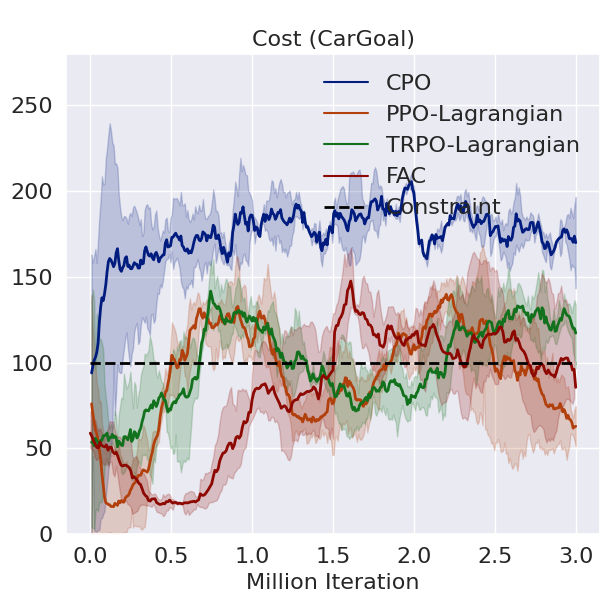
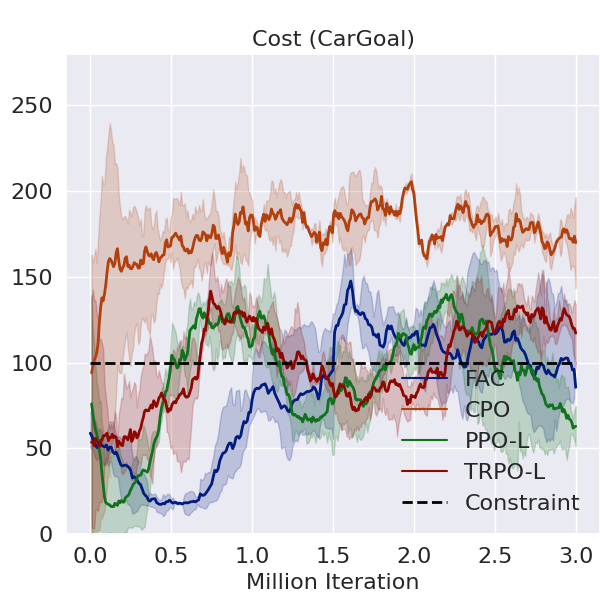
update lineplot

diff --git a/data_process/lineplot_mujoco.py b/data_process/lineplot_mujoco.py
@@ -13,9 +13,9 @@ from tensorboard.backend.event_processing import event_accumulator
 import json
 
 sns.set(style="darkgrid")
-SMOOTHFACTOR = 1
-SMOOTHFACTOR2 = 3
-SMOOTHFACTOR3 = 7
+SMOOTHFACTOR = 1 # 1 3 7 halfcheetah
+SMOOTHFACTOR2 = 20
+SMOOTHFACTOR3 = 20
 DIV_LINE_WIDTH = 50
 txt_store_alg_list = ['CPO', 'PPO-Lagrangian', 'TRPO-Lagrangian']
 base_dict = dict(HalfCheetah=150, Ant=150)
@@ -24,9 +24,9 @@ fsac_final_list = ['conti100HalfCheetah-2021-05-13-20-58-14-s4', 'conti100HalfCh
 ylim_dict = {'episode_return':{'HalfCheetah': [-1000,2500]},'episode_cost':{}}
 
 def help_func():
-    tag2plot = ['episode_return']
-    alg_list = ['CPO','PPO-Lagrangian','TRPO-Lagrangian', 'FSAC',] # 'FSAC', 'CPO', 'SAC','SAC-Lagrangian',
-    lbs = ['CPO','PPO-Lagrangian','TRPO-Lagrangian', 'FAC'] # 'FSAC', 'CPO', 'SAC','SAC-Lagrangian',
+    tag2plot = ['episode_cost']
+    alg_list = ['FSAC','CPO','PPO-Lagrangian','TRPO-Lagrangian', ] # 'FSAC', 'CPO', 'SAC','SAC-Lagrangian',
+    lbs = [ 'FAC', 'CPO','PPO-L','TRPO-L',] # 'FSAC', 'CPO', 'SAC','SAC-Lagrangian',
     task = ['Ant']
     #todo: CarGoal: sac
     #todo: CarButton: sac choose better fac
@@ -102,6 +102,12 @@ def plot_eval_results_of_all_alg_n_runs(dirs_dict_for_plot=None):
                                                     -1] + SMOOTHFACTOR * float(t) / 240.0 * 149.0
                                                 if data_in_one_run_of_one_alg[tag] else float(t)/ 240.0 * 149.0)
                                             data_in_one_run_of_one_alg['iteration'].append(int(step))
+                                        elif alg=='FSAC' and task=='Ant' and tag == 'episode_return' and v.tag[11:]=='episode_return':
+                                            data_in_one_run_of_one_alg[tag].append(
+                                                (1 - SMOOTHFACTOR) * data_in_one_run_of_one_alg[tag][
+                                                    -1] + SMOOTHFACTOR * float(t) / 138.0 * 149.0
+                                                if data_in_one_run_of_one_alg[tag] else float(t)/ 138.0 * 149.0)
+                                            data_in_one_run_of_one_alg['iteration'].append(int(step))
                                         elif tag == v.tag[11:]:
                                             data_in_one_run_of_one_alg[tag].append(
                                                 (1 - SMOOTHFACTOR) * data_in_one_run_of_one_alg[tag][
@@ -137,24 +143,32 @@ def plot_eval_results_of_all_alg_n_runs(dirs_dict_for_plot=None):
         fontsize = 16
         f1 = plt.figure(1, figsize=figsize)
         ax1 = f1.add_axes(axes_size)
-        sns.lineplot(x="iteration", y=tag2plot[0], hue="algorithm",
-                     data=total_dataframe, linewidth=2, palette=palette
-                     )
+        legend = True if task == 'Ant' and tag == 'episode_cost' else False
+        if not legend:
+            sns.lineplot(x="iteration", y=tag2plot[0], hue="algorithm",
+                         data=total_dataframe, linewidth=2, palette=palette, legend=False
+                         )
+        else:
+            sns.lineplot(x="iteration", y=tag2plot[0], hue="algorithm",
+                         data=total_dataframe, linewidth=2, palette=palette
+                         )
         base = base_dict[task]
         handles, labels = ax1.get_legend_handles_labels()
         labels = lbs
         if tag == 'episode_cost':
             basescore = sns.lineplot(x=[0., 3.], y=[base, base], linewidth=2, color='black', linestyle='--')
-            ax1.legend(handles=handles + [basescore.lines[-1]], labels=labels + ['Constraint'], loc='upper right',
-                       frameon=False, fontsize=fontsize)
+            if legend:
+                ax1.legend(handles=handles + [basescore.lines[-1]], labels=labels + ['Constraint'], loc='upper left',
+                           frameon=False, fontsize=fontsize)
         else:
-            ax1.legend(handles=handles , labels=labels , loc='lower right', frameon=False, fontsize=fontsize, ncol=1)
+            if legend:
+                ax1.legend(handles=handles , labels=labels , loc='lower right', frameon=False, fontsize=fontsize, ncol=1)
         # print(ax1.lines[0].get_data())
         ax1.set_ylabel('')
         ax1.set_xlabel("Million Iteration", fontsize=fontsize)
         print(compare_dict)
-        title = 'Reward ({}) \n {:+.0%}, {:+.0%}, {:+.0%}\n over TRPO-L, CPO, PPO-L'\
-            .format(task, compare_dict['TRPO-Lagrangian'], compare_dict['CPO'], compare_dict['PPO-Lagrangian']) if tag == 'episode_return' else 'Episode Cost'
+        title = 'Reward ({}) \n {:+.0%}, {:+.0%}, {:+.0%}\n over CPO, TRPO-L, PPO-L'\
+            .format(task, compare_dict['CPO'], compare_dict['TRPO-Lagrangian'], compare_dict['PPO-Lagrangian']) if tag == 'episode_return' else 'Episode Cost'
         ax1.set_title(title, fontsize=fontsize)
         if task in ylim_dict[tag]:
             ax1.set_ylim(*ylim_dict[tag][task])

diff --git a/data_process/lineplot.py b/data_process/lineplot.py
@@ -22,10 +22,10 @@ ylim_dict = {'episode_return':{'CarGoal': [-5, 25],'PointButton': [-15, 33]},
              'episode_cost':{'CarGoal': [0, 280],'PointButton': [20, 160]}} # {'CarGoal': [-5, 25]}
 
 def help_func():
-    tag2plot = ['episode_cost']
-    alg_list = [ 'CPO', 'PPO-Lagrangian', 'TRPO-Lagrangian', 'FSAC',] # 'SAC','SAC-Lagrangian',, 'TRPO-Lagrangian'
-    lbs = [ 'CPO', 'PPO-Lagrangian', 'TRPO-Lagrangian', 'FAC',] # 'SAC','SAC-Lagrangian',, 'TRPO-Lagrangian'
-    task = ['PointButton']
+    tag2plot = ['episode_return']
+    alg_list = [ 'FSAC','CPO', 'PPO-Lagrangian', 'TRPO-Lagrangian', ] # 'SAC','SAC-Lagrangian',, 'TRPO-Lagrangian'
+    lbs = [ 'FAC','CPO', 'PPO-L', 'TRPO-L', ] # 'SAC','SAC-Lagrangian',, 'TRPO-Lagrangian'
+    task = ['CarGoal']
     #todo: CarGoal: sac
     #todo: CarButton: sac choose better fac
     # todo: CarPush: ???
@@ -34,7 +34,7 @@ def help_func():
     dir_str = '../results/{}/{}' # .format(algo name) # /data2plot
     return tag2plot, alg_list, task, lbs, palette, goal_perf_list, dir_str
 
-def plot_eval_results_of_all_alg_n_runs(dirs_dict_for_plot=None, legend=True):
+def plot_eval_results_of_all_alg_n_runs(dirs_dict_for_plot=None):
     tag2plot, alg_list, task_list, lbs, palette, _, dir_str = help_func()
     df_dict = {}
     df_in_one_run_of_one_alg = {}
@@ -103,9 +103,15 @@ def plot_eval_results_of_all_alg_n_runs(dirs_dict_for_plot=None, legend=True):
         fontsize = 16
         f1 = plt.figure(1, figsize=figsize)
         ax1 = f1.add_axes(axes_size)
-        sns.lineplot(x="iteration", y=tag, hue="algorithm",
-                     data=total_dataframe, linewidth=2, palette=palette
-                     )
+        legend = True if task == 'CarGoal' and tag == 'episode_cost' else False
+        if not legend:
+            sns.lineplot(x="iteration", y=tag2plot[0], hue="algorithm",
+                         data=total_dataframe, linewidth=2, palette=palette, legend=False
+                         )
+        else:
+            sns.lineplot(x="iteration", y=tag2plot[0], hue="algorithm",
+                         data=total_dataframe, linewidth=2, palette=palette
+                         )
         base = 40 if task == 'PointGoal' else 100
         handles, labels = ax1.get_legend_handles_labels()
         labels = lbs

diff --git a/train_scripts/test_script4fsac.py b/train_scripts/test_script4fsac.py
@@ -68,17 +68,17 @@ def built_FSAC_parser():
     mode = parser.parse_args().mode
 
     if mode == 'testing':
-        test_dir = '../results/FSAC/Walker2d/Walker2d-2021-05-17-11-40-09-s2'
+        test_dir = '../results/FSAC/Walker2d/Walker2d-2021-05-17-16-34-02-s0'
         params = json.loads(open(test_dir + '/config.json').read())
         time_now = datetime.datetime.now().strftime("%Y-%m-%d-%H-%M-%S")
         test_log_dir = params['log_dir'] + '/tester/test-{}'.format(time_now)
         params.update(dict(test_dir=test_dir,
-                           test_iter_list=[1000000],
+                           test_iter_list=[1400000],
                            test_log_dir=test_log_dir,
                            num_eval_episode=5,
                            num_eval_agent=1,
                            eval_log_interval=1,
-                           fixed_steps=1000,
+                           fixed_steps=None,
                            eval_render=True,
                            demo=False))
         for key, val in params.items():

diff --git a/train_script4fsac_walker.py b/train_script4fsac_walker.py
@@ -185,7 +185,7 @@ def built_FSAC_parser():
     parser.add_argument('--num_buffers', type=int, default=NUM_BUFFER)
     parser.add_argument('--max_weight_sync_delay', type=int, default=300)
     parser.add_argument('--grads_queue_size', type=int, default=25)
-    parser.add_argument('--grads_max_reuse', type=int, default=3)
+    parser.add_argument('--grads_max_reuse', type=int, default=5)
     parser.add_argument('--eval_interval', type=int, default=10000) # 1000
     parser.add_argument('--save_interval', type=int, default=200000) # 200000
     parser.add_argument('--log_interval', type=int, default=100) # 100
